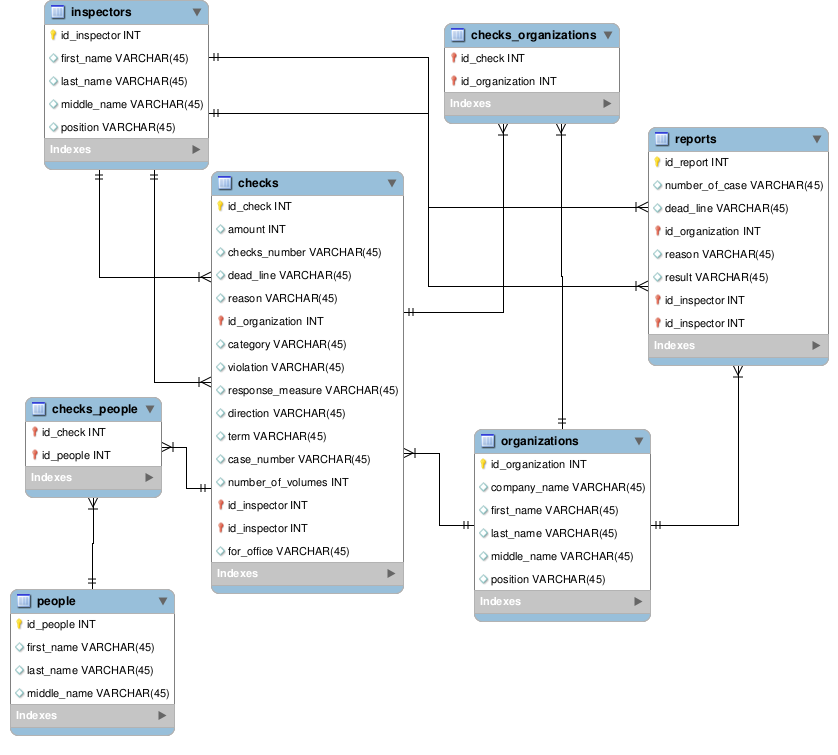
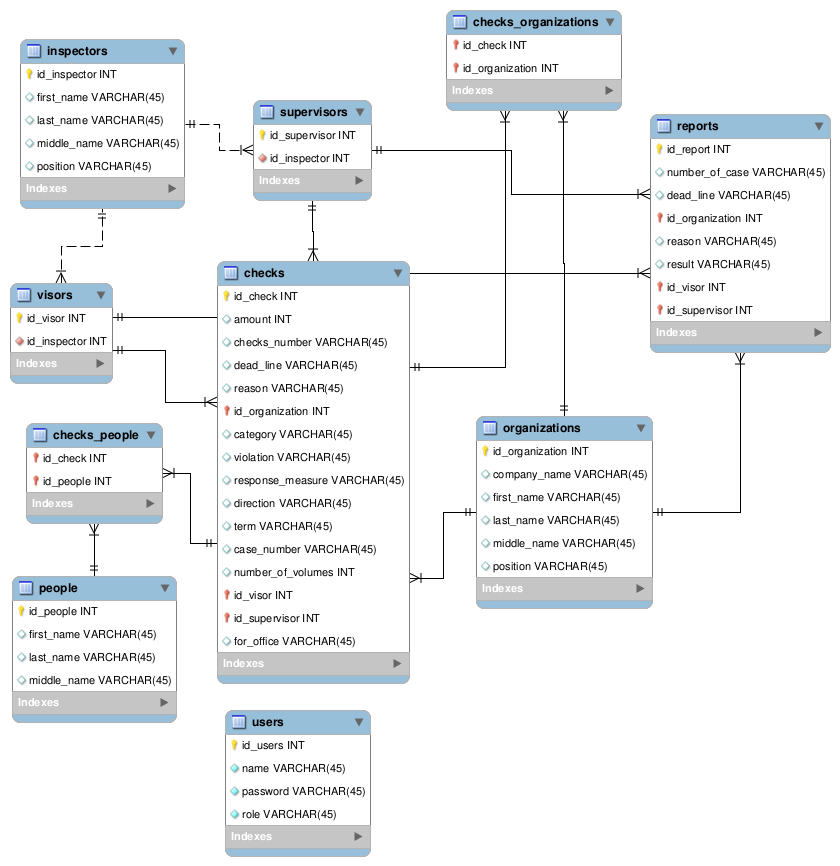
Add many poor

diff --git a/db/schema.rb b/db/schema.rb
@@ -10,16 +10,11 @@
 #
 # It's strongly recommended that you check this file into your version control system.
 
-<<<<<<< HEAD
-ActiveRecord::Schema.define(version: 20170504055502) do
-=======
-ActiveRecord::Schema.define(version: 20170428102428) do
->>>>>>> a6d61366a380ae6615e43bb807b451c9aa9e72ec
+ActiveRecord::Schema.define(version: 20170504081909) do
 
   # These are extensions that must be enabled in order to support this database
   enable_extension "plpgsql"
 
-<<<<<<< HEAD
   create_table "checks", force: :cascade do |t|
     t.integer  "amount"
     t.string   "checks_number"
@@ -35,82 +30,77 @@ ActiveRecord::Schema.define(version: 20170428102428) do
     t.boolean  "for_office"
     t.datetime "created_at",        null: false
     t.datetime "updated_at",        null: false
-    t.integer  "inspector"
     t.integer  "organization_id"
-    t.index ["inspector"], name: "index_checks_on_inspector", using: :btree
+    t.integer  "visor_id"
+    t.integer  "supervisor_id"
     t.index ["organization_id"], name: "index_checks_on_organization_id", using: :btree
-=======
-  create_table "checks", id: :serial, force: :cascade do |t|
-    t.integer "amount"
-    t.string "checks_number"
-    t.date "deadline"
-    t.string "reason"
-    t.string "category"
-    t.string "violation"
-    t.string "response_measure"
-    t.string "direction"
-    t.string "term"
-    t.string "case_number"
-    t.integer "number_of_volumes"
-    t.boolean "for_office"
-    t.datetime "created_at", null: false
-    t.datetime "updated_at", null: false
-    t.integer "inspector"
-    t.integer "organization_id"
-    t.index ["inspector"], name: "index_checks_on_inspector"
-    t.index ["organization_id"], name: "index_checks_on_organization_id"
->>>>>>> a6d61366a380ae6615e43bb807b451c9aa9e72ec
+    t.index ["supervisor_id"], name: "index_checks_on_supervisor_id", using: :btree
+    t.index ["visor_id"], name: "index_checks_on_visor_id", using: :btree
   end
 
   create_table "checks_and_organizations", id: false, force: :cascade do |t|
     t.integer "check_id"
     t.integer "organization_id"
-    t.index ["check_id"], name: "index_checks_and_organizations_on_check_id"
-    t.index ["organization_id"], name: "index_checks_and_organizations_on_organization_id"
+    t.index ["check_id"], name: "index_checks_and_organizations_on_check_id", using: :btree
+    t.index ["organization_id"], name: "index_checks_and_organizations_on_organization_id", using: :btree
   end
 
   create_table "checks_people", id: false, force: :cascade do |t|
     t.integer "check_id"
     t.integer "person_id"
+    t.index ["check_id"], name: "index_checks_people_on_check_id", using: :btree
+    t.index ["person_id"], name: "index_checks_people_on_person_id", using: :btree
   end
 
-  create_table "inspectors", id: :serial, force: :cascade do |t|
-    t.string "first_name"
-    t.string "position"
-    t.datetime "created_at", null: false
-    t.datetime "updated_at", null: false
-    t.string "last_name"
-    t.string "middle_name"
+  create_table "inspectors", force: :cascade do |t|
+    t.string   "first_name"
+    t.string   "position"
+    t.datetime "created_at",  null: false
+    t.datetime "updated_at",  null: false
+    t.string   "last_name"
+    t.string   "middle_name"
   end
 
-  create_table "organizations", id: :serial, force: :cascade do |t|
-    t.string "company_name"
-    t.string "first_name"
-    t.datetime "created_at", null: false
-    t.datetime "updated_at", null: false
-    t.string "middle_name"
-    t.string "second_name"
-    t.string "position"
-  end
-
-  create_table "people", id: :serial, force: :cascade do |t|
-    t.string "first_name"
-    t.string "last_name"
-    t.datetime "created_at", null: false
-    t.datetime "updated_at", null: false
-    t.string "middle_name"
-  end
-
-  create_table "reports", id: :serial, force: :cascade do |t|
-    t.integer "number"
-    t.datetime "dead_line"
-<<<<<<< HEAD
-    t.integer  "inspector_id"
+  create_table "organizations", force: :cascade do |t|
+    t.string   "company_name"
+    t.string   "first_name"
     t.datetime "created_at",   null: false
     t.datetime "updated_at",   null: false
+    t.string   "middle_name"
+    t.string   "second_name"
+    t.string   "position"
+  end
+
+  create_table "people", force: :cascade do |t|
+    t.string   "first_name"
+    t.string   "last_name"
+    t.datetime "created_at",  null: false
+    t.datetime "updated_at",  null: false
+    t.string   "middle_name"
+  end
+
+  create_table "reports", force: :cascade do |t|
+    t.integer  "number"
+    t.datetime "dead_line"
+    t.integer  "inspector_id"
+    t.datetime "created_at",      null: false
+    t.datetime "updated_at",      null: false
     t.string   "reason"
     t.string   "result"
+    t.integer  "supervisor_id"
+    t.integer  "visor_id"
+    t.integer  "organization_id"
     t.index ["inspector_id"], name: "index_reports_on_inspector_id", using: :btree
+    t.index ["organization_id"], name: "index_reports_on_organization_id", using: :btree
+    t.index ["supervisor_id"], name: "index_reports_on_supervisor_id", using: :btree
+    t.index ["visor_id"], name: "index_reports_on_visor_id", using: :btree
+  end
+
+  create_table "supervisors", force: :cascade do |t|
+    t.datetime "created_at",   null: false
+    t.datetime "updated_at",   null: false
+    t.integer  "inspector_id"
+    t.index ["inspector_id"], name: "index_supervisors_on_inspector_id", using: :btree
   end
 
   create_table "users", force: :cascade do |t|
@@ -119,17 +109,22 @@ ActiveRecord::Schema.define(version: 20170428102428) do
     t.string   "role"
     t.datetime "created_at", null: false
     t.datetime "updated_at", null: false
-=======
-    t.integer "inspector_id"
-    t.datetime "created_at", null: false
-    t.datetime "updated_at", null: false
-    t.string "reason"
-    t.string "result"
-    t.index ["inspector_id"], name: "index_reports_on_inspector_id"
->>>>>>> a6d61366a380ae6615e43bb807b451c9aa9e72ec
   end
 
-  add_foreign_key "checks", "inspectors", column: "inspector"
+  create_table "visors", force: :cascade do |t|
+    t.datetime "created_at",   null: false
+    t.datetime "updated_at",   null: false
+    t.integer  "inspector_id"
+    t.index ["inspector_id"], name: "index_visors_on_inspector_id", using: :btree
+  end
+
   add_foreign_key "checks", "organizations"
+  add_foreign_key "checks", "supervisors"
+  add_foreign_key "checks", "visors"
   add_foreign_key "reports", "inspectors"
+  add_foreign_key "reports", "organizations"
+  add_foreign_key "reports", "supervisors"
+  add_foreign_key "reports", "visors"
+  add_foreign_key "supervisors", "inspectors"
+  add_foreign_key "visors", "inspectors"
 end

diff --git a/app/models/check.rb b/app/models/check.rb
@@ -1,5 +1,6 @@
 class Check < ApplicationRecord
 	has_and_belongs_to_many :people
 	has_and_belongs_to_many :organizations
-	belongs_to :inspectors
+	belongs_to :visor
+	belongs_to :supervisor
 end

diff --git a/db/migrate/20170504065941_add_inspectors_to_supervisors.rb b/db/migrate/20170504065941_add_inspectors_to_supervisors.rb
@@ -1,0 +1,5 @@
+class AddInspectorsToSupervisors < ActiveRecord::Migration[5.0]
+  def change
+    add_reference :supervisors, :inspector, foreign_key: true
+  end
+end

diff --git a/db/migrate/20170504081909_add_organizations_to_reports.rb b/db/migrate/20170504081909_add_organizations_to_reports.rb
@@ -1,0 +1,5 @@
+class AddOrganizationsToReports < ActiveRecord::Migration[5.0]
+  def change
+    add_reference :reports, :organization, foreign_key: true
+  end
+end

diff --git a/db/migrate/20170504064043_create_supervisors.rb b/db/migrate/20170504064043_create_supervisors.rb
@@ -1,0 +1,8 @@
+class CreateSupervisors < ActiveRecord::Migration[5.0]
+  def change
+    create_table :supervisors do |t|
+
+      t.timestamps
+    end
+  end
+end

diff --git a/app/models/report.rb b/app/models/report.rb
@@ -1,3 +1,5 @@
 class Report < ApplicationRecord
-    belongs_to :inspectors
+    belongs_to :visor
+    belongs_to :supervisor
+    belongs_to :organization
 end

diff --git a/db/migrate/20170504080329_add_supervisors_to_reports.rb b/db/migrate/20170504080329_add_supervisors_to_reports.rb
@@ -1,0 +1,5 @@
+class AddSupervisorsToReports < ActiveRecord::Migration[5.0]
+  def change
+    add_reference :reports, :supervisor, foreign_key: true
+  end
+end

diff --git a/db/migrate/20170504070312_add_supevisors_to_checks.rb b/db/migrate/20170504070312_add_supevisors_to_checks.rb
@@ -1,0 +1,5 @@
+class AddSupevisorsToChecks < ActiveRecord::Migration[5.0]
+  def change
+    add_reference :checks, :supervisor, foreign_key: true
+  end
+end

diff --git a/db/migrate/20170504065801_add_inspectors_to_visors.rb b/db/migrate/20170504065801_add_inspectors_to_visors.rb
@@ -1,0 +1,5 @@
+class AddInspectorsToVisors < ActiveRecord::Migration[5.0]
+  def change
+    add_reference :visors, :inspector, foreign_key: true
+  end
+end

diff --git a/db/migrate/20170504064018_create_visors.rb b/db/migrate/20170504064018_create_visors.rb
@@ -1,0 +1,8 @@
+class CreateVisors < ActiveRecord::Migration[5.0]
+  def change
+    create_table :visors do |t|
+
+      t.timestamps
+    end
+  end
+end

diff --git a/db/migrate/20170504080404_add_visors_to_reports.rb b/db/migrate/20170504080404_add_visors_to_reports.rb
@@ -1,0 +1,5 @@
+class AddVisorsToReports < ActiveRecord::Migration[5.0]
+  def change
+    add_reference :reports, :visor, foreign_key: true
+  end
+end

diff --git a/db/migrate/20170504070258_add_visors_to_checks.rb b/db/migrate/20170504070258_add_visors_to_checks.rb
@@ -1,0 +1,5 @@
+class AddVisorsToChecks < ActiveRecord::Migration[5.0]
+  def change
+    add_reference :checks, :visor, foreign_key: true
+  end
+end
